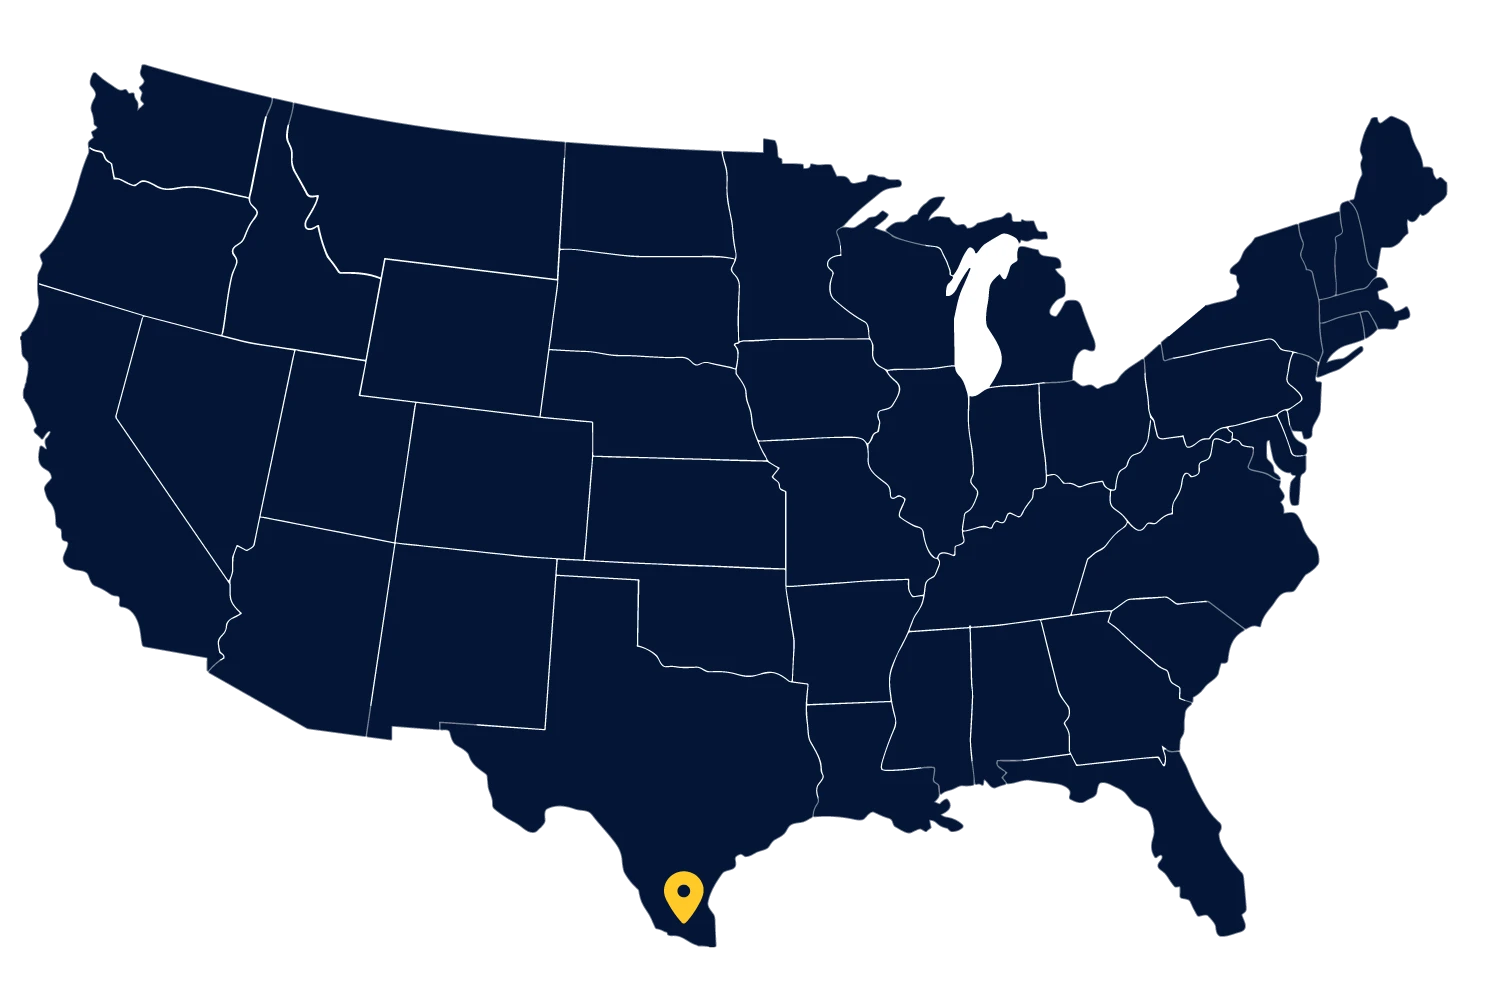
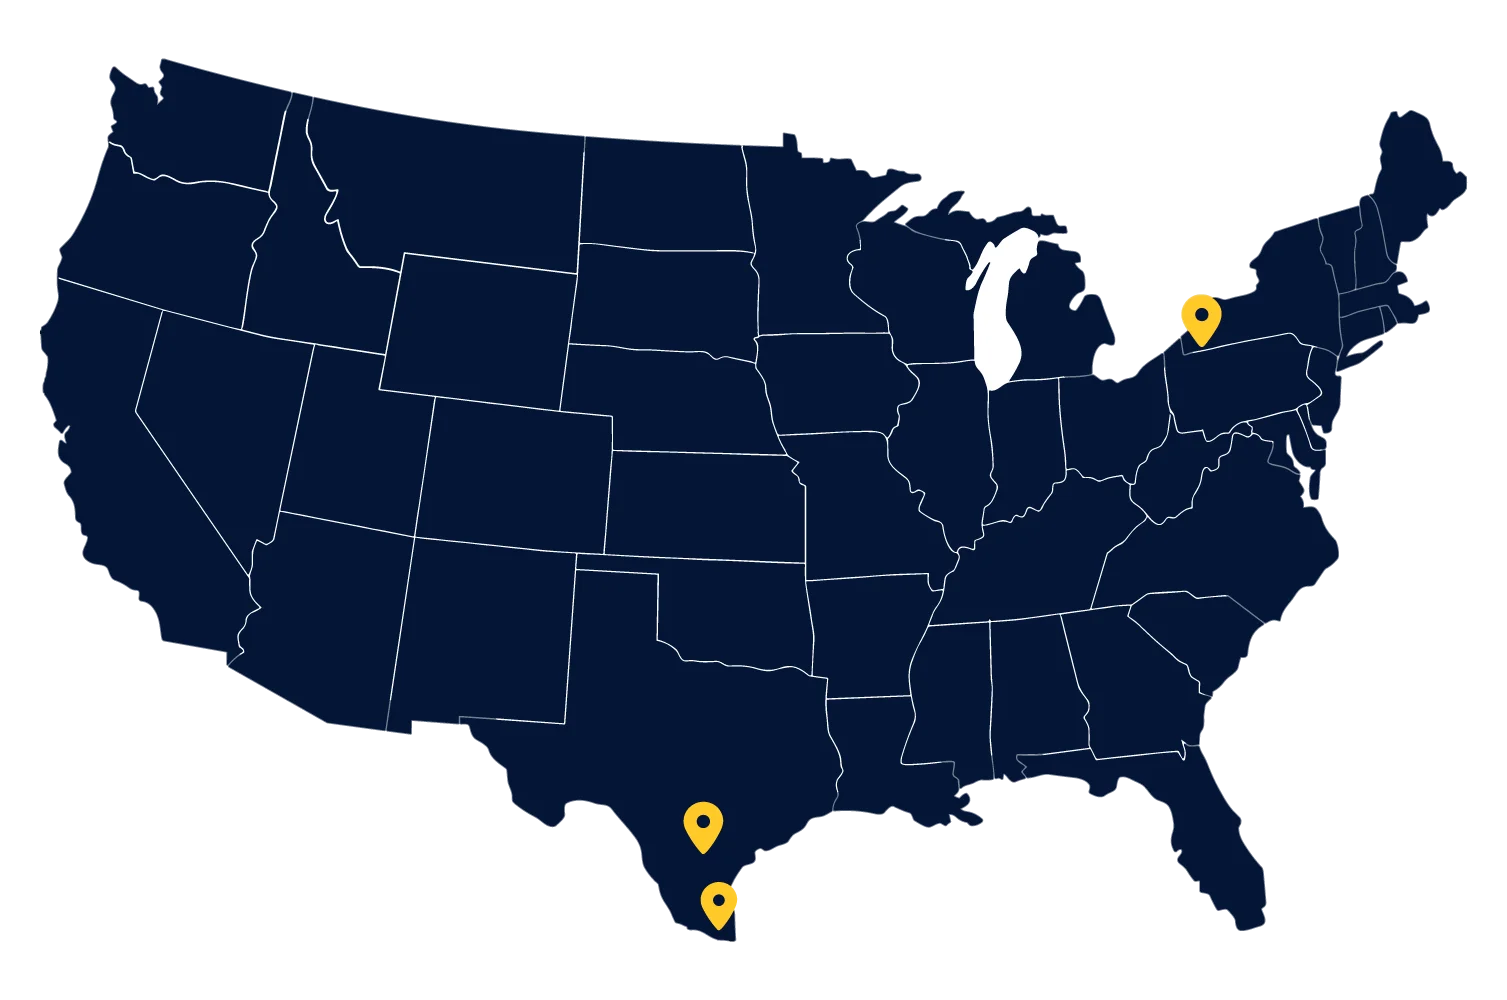
💄 : Client changes to locations and terms & conditions

diff --git a/src/pages/terms-conditions.tsx b/src/pages/terms-conditions.tsx
@@ -1,106 +1,61 @@
 import { Hero, Section } from '@/components';
 import { NextSeo } from 'next-seo';
 
+const termsAndConditions = [
+  {
+    id: crypto.randomUUID(),
+    title: 'Terms of website use',
+    content: `This page, in conjunction with the referenced documents, delineates the terms under which you are granted permission to access and utilize our website, available at https://frontdock.com/ ("our site"). Your use of our site encompasses activities such as browsing, accessing, or registering for site usage. Prior to commencing your use of our site, we kindly request that you thoroughly review and consider these terms of use. They will govern your interactions with our site. By proceeding to use our site, you affirmatively acknowledge your acceptance Of these terms of use, demonstrating your commitment to adhere to them. Should you not concur with these terms of use, we regretfully inform you that you should refrain from using our site.`,
+  },
+  {
+    id: crypto.randomUUID(),
+    title: 'Cognizance and Agreement to Terms',
+    content: `By utilizing the services provided by Front Dock or visiting our website, users acknowledge their understanding of and consent to comply with the terms and conditions delineated on this webpage. This agreement reflects the user's commitment to adhere to the established guidelines and regulations.`,
+  },
+  {
+    id: crypto.randomUUID(),
+    title: 'Intellectual Property Ownership and Usage',
+    content: `Within this website, you will find content that is either owned by us or licensed to us. This encompasses various elements, such as the design, layout, visual aesthetics, and overall appearance of the website. It is crucial to understand that any form of reproduction or utilization of this material is strictly prohibited, except as explicitly permitted by the copyright notice, which constitutes an integral component of these terms and conditions.`,
+  },
+  {
+    id: crypto.randomUUID(),
+    title: 'Terms & Conditions',
+    content: `Accessibility to Our Website: Our website is offered to you without any associated charges. We cannot ensure uninterrupted availability or constant accessibility of our website, along with its content. Access to our website is granted on a temporary basis. We reserve the right to suspend, withdraw, discontinue, or modify any part or the entirety of our website without prior notice. We shall not be held liable if, for any reason, our website becomes unavailable temporarily or for an extended period. Moreover, it is your responsibility to ensure that all individuals accessing our website through your internet connection are well-informed about these terms of use, as well as any other relevant terms and conditions, and that they adhere to them diligently. Our expertise lies in maintaining the website's availability and functionality to the best of our ability, and we appreciate your understanding in this regard.`,
+  },
+  {
+    id: crypto.randomUUID(),
+    title: 'Responsibility and Liability Terms for Merchandise Ownership',
+    content: `The responsibility for the merchandise remains with its owner. We disclaim any liability associated with illegal merchandise or the condition of the goods. Levering our expertise, we ensure a clear delineation of responsibilities in these matters.`,
+  },
+  {
+    id: crypto.randomUUID(),
+    title: 'Exercising Caution in Information Utilization',
+    content: `We want to emphasize that your utilization of any information or materials found on this website is solely and entirely at your own discretion and risk. We shall not assume any liability for the consequences of such usage.`,
+  },
+  {
+    id: crypto.randomUUID(),
+    title: 'Viruses',
+    content: `It's important to note that we cannot provide an absolute guarantee regarding the security of our site or its immunity from bugs or viruses. To optimize your experience and minimize any potential risks, the responsibility falls on you to configure your information technology, computer programs, and platform for seamless access to our site. We strongly recommend that you employ your own reliable virus protection software, thus adding an extra layer of security to your online interactions with us.`,
+  },
+];
+
 export default function TermsConditionsPage() {
   return (
     <>
       <NextSeo title='Terms & Conditions | Front Dock' />
       <Hero image='bg-home-hero'>Terms & Conditions</Hero>
-      <Section id='terms-conditions' className='space-y-8 bg-white text-primary'>
-        <div>
-          <h2 className='text-left text-lg capitalize sm:text-xl md:text-2xl lg:text-3xl xl:text-4xl 2xl:text-5xl'>
-            Terms of website use:
-          </h2>
-          <p>
-            This page, in conjunction with the referenced documents, delineates the terms under
-            which you are granted permission to access and utilize our website, available at
-            https://frontdock.com/ (&quot;our site&quot;). Your use of our site encompasses
-            activities such as browsing, accessing, or registering for site usage. Prior to
-            commencing your use of our site, we kindly request that you thoroughly review and
-            consider these terms of use. They will govern your interactions with our site. By
-            proceeding to use our site, you affirmatively acknowledge your acceptance Of these terms
-            of use, demonstrating your commitment to adhere to them. Should you not concur with
-            these terms of use, we regretfully inform you that you should refrain from using our
-            site.
-          </p>
-        </div>
-        <div>
-          <h2 className='text-left text-lg capitalize sm:text-xl md:text-2xl lg:text-3xl xl:text-4xl 2xl:text-5xl'>
-            Cognizance and Agreement to Terms:
-          </h2>
-          <p>
-            By utilizing the services provided by Front Dock or visiting our website, users
-            acknowledge their understanding of and consent to comply with the terms and conditions
-            delineated on this webpage. This agreement reflects the user&apos;s commitment to adhere
-            to the established guidelines and regulations.
-          </p>
-        </div>
-        <div>
-          <h2 className='text-left text-lg capitalize sm:text-xl md:text-2xl lg:text-3xl xl:text-4xl 2xl:text-5xl'>
-            Intellectual Property Ownership and Usage:
-          </h2>
-          <p>
-            Within this website, you will find content that is either owned by us or licensed to us.
-            This encompasses various elements, such as the design, layout, visual aesthetics, and
-            overall appearance of the website. It is crucial to understand that any form of
-            reproduction or utilization of this material is strictly prohibited, except as
-            explicitly permitted by the copyright notice, which constitutes an integral component of
-            these terms and conditions.
-          </p>
-        </div>
-
-        <div>
-          <h2 className='text-left text-lg capitalize sm:text-xl md:text-2xl lg:text-3xl xl:text-4xl 2xl:text-5xl'>
-            Terms & Conditions:
-          </h2>
-          <p>
-            Accessibility to Our Website: Our website is offered to you without any associated
-            charges. We cannot ensure uninterrupted availability or constant accessibility of our
-            website, along with its content. Access to our website is granted on a temporary basis.
-            We reserve the right to suspend, withdraw, discontinue, or modify any part or the
-            entirety of our website without prior notice. We shall not be held liable if, for any
-            reason, our website becomes unavailable temporarily or for an extended period. Moreover,
-            it is your responsibility to ensure that all individuals accessing our website through
-            your internet connection are well-informed about these terms of use, as well as any
-            other relevant terms and conditions, and that they adhere to them diligently. Our
-            expertise lies in maintaining the website&apos;s availability and functionality to the
-            best of our ability, and we appreciate your understanding in this regard.
-          </p>
-        </div>
-
-        <div>
-          <h2 className='text-left text-lg capitalize sm:text-xl md:text-2xl lg:text-3xl xl:text-4xl 2xl:text-5xl'>
-            Responsibility and Liability Terms for Merchandise Ownership:
-          </h2>
-          <p>
-            The responsibility for the merchandise remains with its owner. We disclaim any liability
-            associated with illegal merchandise or the condition of the goods. Levering our
-            expertise, we ensure a clear delineation of responsibilities in these matters.
-          </p>
-        </div>
-        <div>
-          <h2 className='text-left text-lg capitalize sm:text-xl md:text-2xl lg:text-3xl xl:text-4xl 2xl:text-5xl'>
-            Exercising Caution in Information Utilization:
-          </h2>
-          <p>
-            We want to emphasize that your utilization of any information or materials found on this
-            website is solely and entirely at your own discretion and risk. We shall not assume any
-            liability for the consequences of such usage.
-          </p>
-        </div>
-        <div>
-          <h2 className='text-left text-lg capitalize sm:text-xl md:text-2xl lg:text-3xl xl:text-4xl 2xl:text-5xl'>
-            Viruses:
-          </h2>
-          <p>
-            It&apos;s important to note that we cannot provide an absolute guarantee regarding the
-            security of our site or its immunity from bugs or viruses. To optimize your experience
-            and minimize any potential risks, the responsibility falls on you to configure your
-            information technology, computer programs, and platform for seamless access to our site.
-            We strongly recommend that you employ your own reliable virus protection software, thus
-            adding an extra layer of security to your online interactions with us.
-          </p>
-        </div>
+      <Section
+        id='terms-conditions'
+        className='space-y-8 bg-white !py-14 text-primary lg:space-y-12'
+      >
+        {termsAndConditions.map(({ id, title, content }) => (
+          <div key={id} className='space-y-2 lg:px-16'>
+            <h2 className='text-left text-lg !font-bold capitalize sm:text-lg md:text-xl lg:text-xl xl:text-2xl 2xl:text-2xl'>
+              {title}:
+            </h2>
+            <p className='text-justify'>{content}</p>
+          </div>
+        ))}
       </Section>
     </>
   );

diff --git a/src/section/contact/locations.tsx b/src/section/contact/locations.tsx
@@ -5,9 +5,9 @@ import Image from 'next/image';
 
 export default function Locations() {
   return (
-    <section className='bg-white px-5 py-8 text-center text-primary 2xl:py-20'>
+    <section className='bg-white px-6 py-16 text-center text-primary 2xl:py-20'>
       <motion.h2
-        className='pb-8 text-2xl font-black uppercase lg:text-3xl 2xl:text-4xl'
+        className='pb-8 font-black uppercase'
         initial={{ x: -150, opacity: 0 }}
         whileInView={{ x: 0, opacity: 1 }}
         transition={{ duration: 0.8 }}
@@ -15,7 +15,7 @@ export default function Locations() {
       >
         Locations
       </motion.h2>
-      <div className='flex flex-col-reverse lg:flex-row lg:items-center lg:px-20 2xl:px-56'>
+      <div className='flex flex-col-reverse gap-y-8 lg:flex-row lg:items-center lg:justify-center lg:px-20 2xl:px-56'>
         <motion.div
           className='lg:w-1/2'
           initial={{ opacity: 0, scale: 0 }}
@@ -41,10 +41,20 @@ export default function Locations() {
             loading='eager'
           />
         </motion.div>
-        <div className='mt-5 flex w-full flex-row items-center justify-evenly gap-x-2 lg:w-1/2 lg:flex-col lg:gap-y-14 2xl:gap-y-20'>
+        <div className='flex w-full flex-row flex-wrap items-center justify-evenly gap-x-2 gap-y-8 lg:w-1/3 lg:flex-col lg:flex-nowrap lg:gap-y-10 2xl:gap-y-12'>
+          <LocationCard>
+            <p className='font-black'>Northeast</p>
+            <p>202 Rhode Island Ave</p>
+            <p>Buffalo, NY 14213</p>
+          </LocationCard>
           <LocationCard>
             <p className='font-black'>South</p>
-            <p>E. Cedar-Suite G 517,</p>
+            <p>1234 Main Street</p>
+            <p>San Antonio, TX 78040</p>
+          </LocationCard>
+          <LocationCard>
+            <p className='font-black'>South</p>
+            <p>E. Cedar-Suite G 517</p>
             <p>McAllen, TX 78501</p>
           </LocationCard>
         </div>

diff --git a/src/components/footer.tsx b/src/components/footer.tsx
@@ -6,7 +6,7 @@ import SubscriptionForm from './subscription-form';
 export default function Footer() {
   return (
     <>
-      <footer className='grid grid-cols-1 gap-4 bg-primary p-8 font-montserrat tracking-wide text-white md:grid-cols-2 md:gap-8 md:p-16 lg:grid-cols-[2fr_2fr_2fr]'>
+      <footer className='grid grid-cols-1 gap-4 space-y-4 bg-primary p-8 font-montserrat tracking-wide text-white md:grid-cols-2 md:gap-8 md:p-14 lg:grid-cols-[2fr_2fr_2fr]'>
         <div className='space-y-4'>
           <p className='text-base font-bold'>About Us</p>
           <p className='text-justify text-sm font-light'>
@@ -65,7 +65,7 @@ export default function Footer() {
           </div>
         </div>
         <div className='flex w-full flex-col items-center gap-8'>
-          <p className='text-3xl'>Ready to get started?</p>
+          <p className='text-center text-3xl'>Ready to get started?</p>
           <div className='form-control'>
             <SubscriptionForm />
           </div>

diff --git a/src/section/contact/banner-contact.tsx b/src/section/contact/banner-contact.tsx
@@ -7,12 +7,12 @@ export default function BannerContact() {
   return (
     <div
       className={clsx(
-        'flex items-center justify-center gap-1 bg-secondary py-14 text-sm font-extrabold text-primary sm:gap-2',
-        'lg:gap-x-14 lg:text-2xl',
+        'flex flex-col items-center justify-center gap-1 gap-y-8 bg-secondary py-8 text-xl font-extrabold text-primary sm:gap-2',
+        'lg:flex-row lg:gap-x-14 lg:py-12 lg:text-2xl',
         '2xl:text-3xl',
       )}
     >
-      <div>
+      <div className='flex items-center gap-x-2'>
         <FontAwesomeIcon icon={faEnvelope} />
         <Link
           href='mailto:sales@frontdock.com'
@@ -23,7 +23,7 @@ export default function BannerContact() {
           sales@frontdock.com
         </Link>
       </div>
-      <div>
+      <div className='flex items-center gap-x-2'>
         <FontAwesomeIcon icon={faPhone} />
         <Link
           href='tel:+19566487402'

diff --git a/src/components/location-card.tsx b/src/components/location-card.tsx
@@ -8,7 +8,7 @@ type LocationCardProps = {
 export default function LocationCard({ children }: LocationCardProps) {
   return (
     <motion.div
-      className='h-fit w-[200px] border border-slate-300 px-5 py-4 text-base shadow-lg drop-shadow-lg lg:w-[242px] lg:px-5 lg:py-7 lg:text-lg 2xl:w-[350px] 2xl:px-6 2xl:py-12 2xl:text-2xl'
+      className='h-fit w-[200px] border border-slate-300 p-4 text-base shadow-lg drop-shadow-lg lg:w-[242px] lg:px-5 lg:py-7 lg:text-lg 2xl:w-[350px] 2xl:px-6 2xl:py-12 2xl:text-2xl'
       initial={{ opacity: 0, scale: 0 }}
       whileInView={{ opacity: 1, scale: 1 }}
       viewport={{ once: true }}
